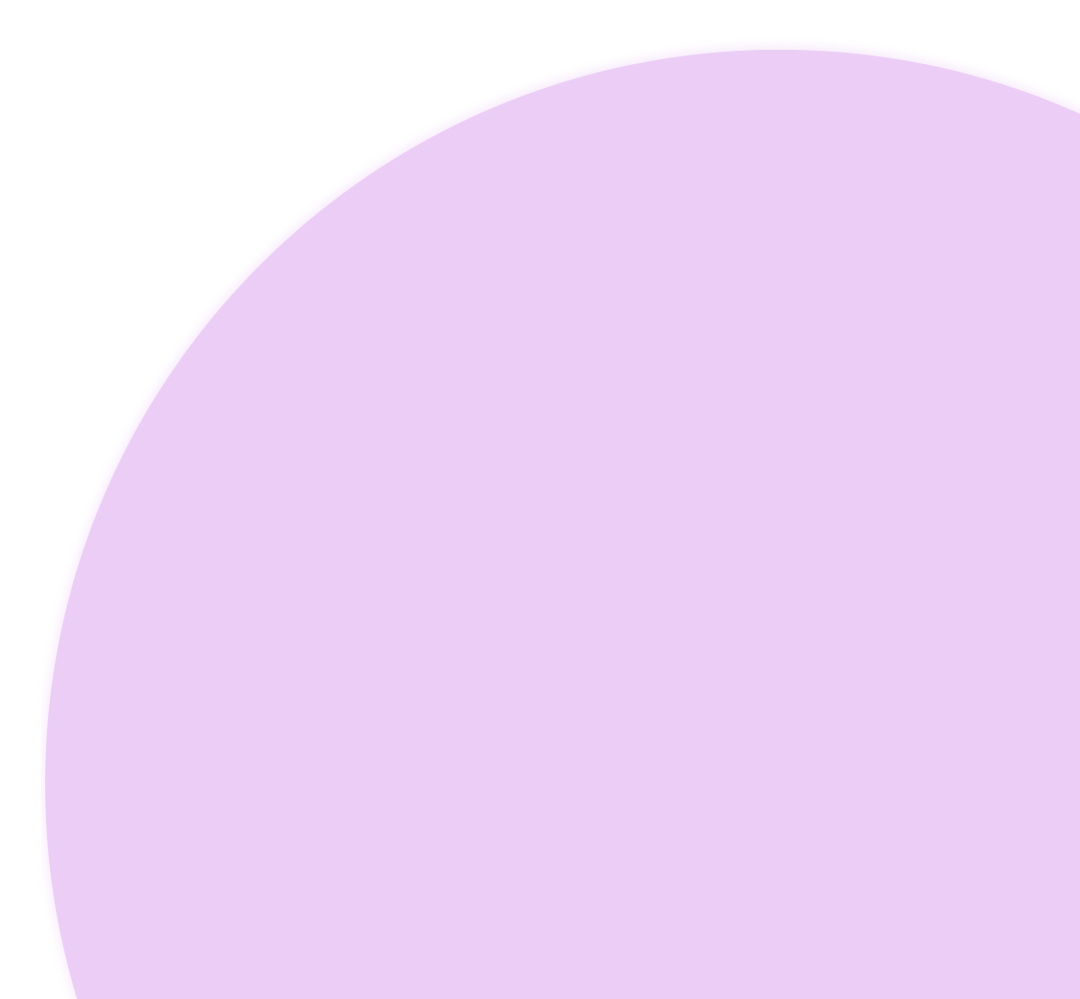
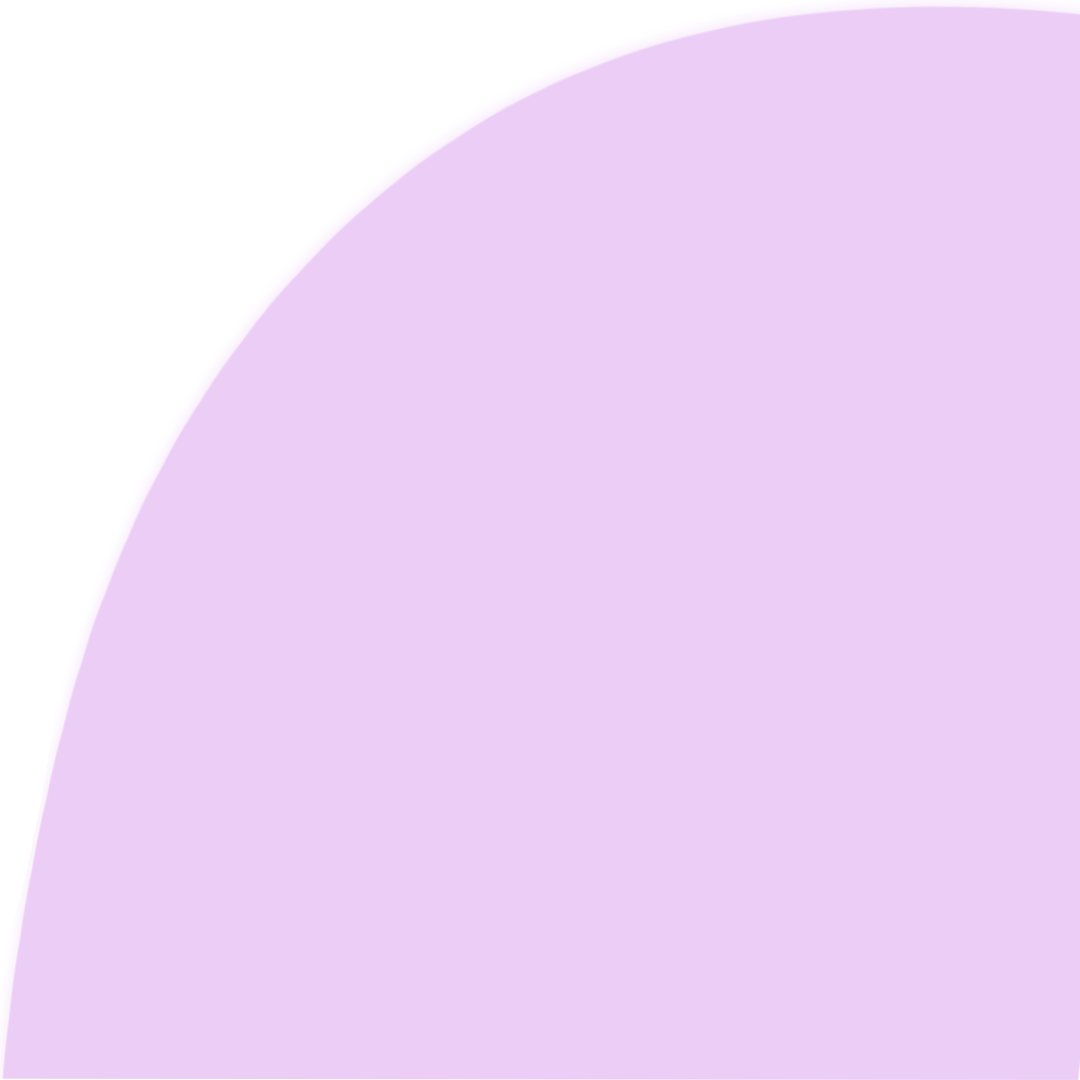
Add files via upload

diff --git a/style.css b/style.css
@@ -27,16 +27,16 @@ div {
   height: 90%;
   position: absolute;
   background-color: white;
-  min-width: 340px;
+  min-width: 348px;
   padding: 30px 0;
   top: 0%;
   margin: 2%;
 	-webkit-box-shadow: 0px 0px 7px 1px #737373;
 }
 
-.cornerTr {
-	width: 30%;
-  height: 24%;
+.cornerTl {
+	width: 150px;
+  height: 150px;
 	background-color: red;
 	background: url(img/left.png);
 	background-size: contain;
@@ -67,8 +67,8 @@ div {
 }
 
 .cornerBl {
-	width: 30%;
-  height: 12%;
+	width: 150px;
+  height: 84.69px;
   background-color: red;
   background: url(img/amd.png);
   background-size: contain;
@@ -76,7 +76,7 @@ div {
   background-position: center;
   position: absolute;
   bottom: 0;
-  left: -2%;
+  left: 0;
   /*animation-name: corners;
 	animation-duration: 2s;
 	animation-iteration-count: infinite;*/
@@ -85,12 +85,13 @@ div {
 .container-title {
 	width: 90%;
 	height: 25%;
-	background: url(img/redes.png);
+	background: url(img/redes4.png);
 	background-size: contain;
 	background-repeat: no-repeat;
 	background-position: center;
 	align-items: center;
 	position: relative;
+	transition: 0.2s linear;
 }
 
 .container-ig {
@@ -132,29 +133,48 @@ div {
 	transition: 0.2s linear;
 }
 
+.container-title:hover {
+	background: url(img/redes.png);
+	background-size: contain;
+	background-repeat: no-repeat;
+	background-position: center;
+}
+
 .container-wp:hover {
-	height: 19%
+	height: 19%;
+	background: url(img/wp4.png);
+	background-size: contain;
+	background-repeat: no-repeat;
+	background-position: center;
 }
 
 .container-fb:hover {
-	height: 19%
+	height: 19%;
+	background: url(img/fb4.png);
+	background-size: contain;
+	background-repeat: no-repeat;
+	background-position: center;
 }
 
 
 .container-ig:hover {
-	height: 19%
+	height: 19%;
+	background: url(img/ig4.png);
+	background-size: contain;
+	background-repeat: no-repeat;
+	background-position: center;
 }
 
 @keyframes cornerright {
-	0% { height: 24%; width: 30% } 
-	50% { height: 26%; width: 32% }
-	100% { height: 24%; width: 30% } 
+	0% { height: 150px; width: 150px } 
+	50% { height: 170px; width: 170px }
+	100% { height: 150px; width: 150px } 
 }
 
 @keyframes cornerleft {
-	0% { height: 24%; width: 30% } 
-	50% { height: 27%; width: 34% }
-	100% { height: 24%; width: 30% } 
+	0% { height: 150px; width: 150px } 
+	50% { height: 170px; width: 170px }
+	100% { height: 150px; width: 150px } 
 }
 
 @keyframes title {
@@ -163,7 +183,7 @@ div {
 	100% { height: 25% } 
 }
 
-@media screen and (max-width: 900px) {
+/*@media screen and (max-width: 900px) {
 	.container-all {
 		width: 100%;
 	  height: 100%;
@@ -182,7 +202,7 @@ div {
 		display: flex;
 		justify-content: center;
 		align-items: center;
-		/*filter: blur(4px);*/
+		/*filter: blur(4px);
 		background-color: white;
 		overflow: hidden;
 	}
@@ -190,7 +210,7 @@ div {
 	.cornerTr {
 		top: -6%;
 	}
-	
+
 	.cornerBl {
 		visibility: hidden;
 	}
@@ -199,4 +219,4 @@ div {
 		bottom: 3%;
 	}
 
-}
+}*/

diff --git a/index.html b/index.html
@@ -14,7 +14,6 @@
 			<div class="container-all">
 
 				<div class="cornerTl"></div>
-				<div class="cornerTr"></div>
 				<div class="cornerBr"></div>
 				<div class="cornerBl"></div>
 
